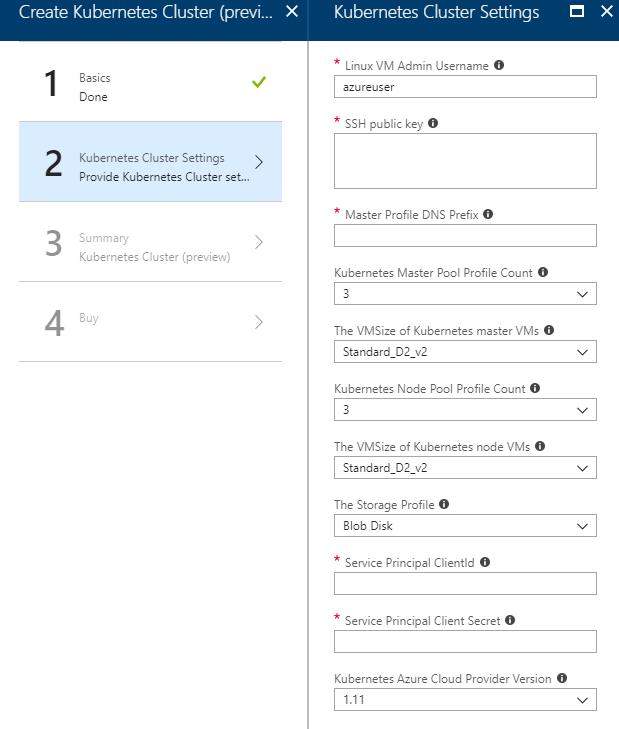
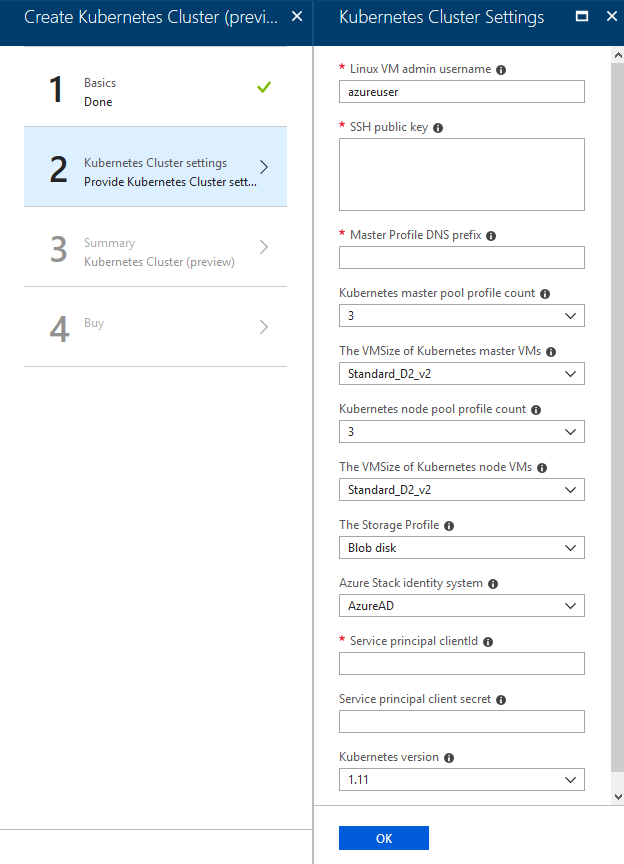
fix cases, names, and images

diff --git a/articles/azure/azs-how-create-aks.md b/articles/azure/azs-how-create-aks.md
@@ -17,7 +17,7 @@ toc_mdlink: azs-how-create-aks.md
 
 ## Overview
 
-Azure Kubernetes Service (AKS) makes it simple to deploy a managed Kubernetes cluster in Azure. AKS reduces the complexity and operational overhead of managing Kubernetes by offloading much of that responsibility to Azure. As a hosted Kubernetes service, Azure handles critical tasks like health monitoring and maintenance for you. The Kubernetes masters are managed by Azure. You only manage and maintain the agent nodes. As a managed Kubernetes service, AKS is free - you only pay for the agent nodes within your clusters, not for the masters.
+Azure Kubernetes Service (AKS) makes it simple to deploy a managed Kubernetes cluster in Azure Stack. AKS reduces the complexity and operational overhead of managing Kubernetes by offloading much of that responsibility to Azure Stack. As a hosted Kubernetes service, Azure Stack handles critical tasks like health monitoring and maintenance for you.
 
 ### Intended audience
 
@@ -47,33 +47,35 @@ To complete the steps in this guide, you must have appropriate access to a subsc
 
    **Resource group** - Select an existing resource group, or create a new one by typing a name for your new resource group.
 
-   **Location** - This will be 'frn00006', which is the location of the Azure Stack.
+   **Location** - This will be `frn00006`, which is the location of the Azure Stack.
 
    ![Create Kubernetes Cluster > Basics](images/azs-browser-create-aks-basics.png)
 
 6. In the *Kubernetes Cluster Settings* step, enter the following information and click **OK**:
 
-   **Linux VM Admin Username** - The username for the Linux virtual machines that are part of the Kubernetes Cluster.
+   **Linux VM admin username** - The username for the Linux virtual machines that are part of the Kubernetes Cluster.
 
    **SSH public key** - SSH public key used for authentication to all Linux machines created as part of the the Kubernetes cluster.
 
-   **Master Profile DNS Prefix** - This must be a region-unique name, for example k8s-12345. Try to choose the same name as the resource group as best practice.
+   **Master Profile DNS prefix** - This must be a region-unique name, for example k8s-12345. Try to choose the same name as the resource group as best practice.
 
-   **Kubernetes Master Pool Profile Count** - The number of master nodes for the Kubernetes cluster. This value should be an odd number.
+   **Kubernetes master pool profile count** - The number of master nodes for the Kubernetes cluster. This value should be an odd number.
 
-   **The VMSize of Kubernetes node VMs** - The VM size of each master node. For information about the different available VM sizes, see <https://docs.microsoft.com/en-gb/azure/azure-stack/user/azure-stack-vm-sizes>.
+   **The VMSize of Kubernetes master VMs** - The VM size of each master node. For information about the different available VM sizes, see <https://docs.microsoft.com/en-gb/azure/azure-stack/user/azure-stack-vm-sizes>.
 
-   **Kubernetes Node Pool Profile Count** - The number of agents for the Kubernetes cluster.
+   **Kubernetes node pool profile count** - The number of agents for the Kubernetes cluster.
 
    **The VMSize of Kubernetes node VMs** - The VM size of each agent node.
 
    **The Storage Profile** - The storage profile for the Kubernetes cluster.
 
-   **Service Principal ClientID** - The Service Principal application ID (used by the Kubernetes Azure cloud provider). More help [here](https://github.com/Azure/acs-engine/blob/master/docs/serviceprincipal.md).
+   **Azure Stack identity system** - Azure Stack identity provider - defaults to AzureAD
 
-   **Service Principal Client Secret** - The Service Principal Client secret.
+   **Service principal clientId** - The Service Principal application ID (used by the Kubernetes Azure cloud provider). More help [here](https://github.com/Azure/acs-engine/blob/master/docs/serviceprincipal.md).
 
-   **Kubernetes Azure Cloud Provider Version** - This is the Kubernetes version that is used for the cluster.
+   **Service principal client secret** - The Service Principal Client secret.
+
+   **Kubernetes version** - This is the Kubernetes version that is used for the cluster.
 
    ![Create Azure Kubernetes Service cluster > Kubernetes Cluster Settings](images/azs-browser-create-aks-settings.png)
 
